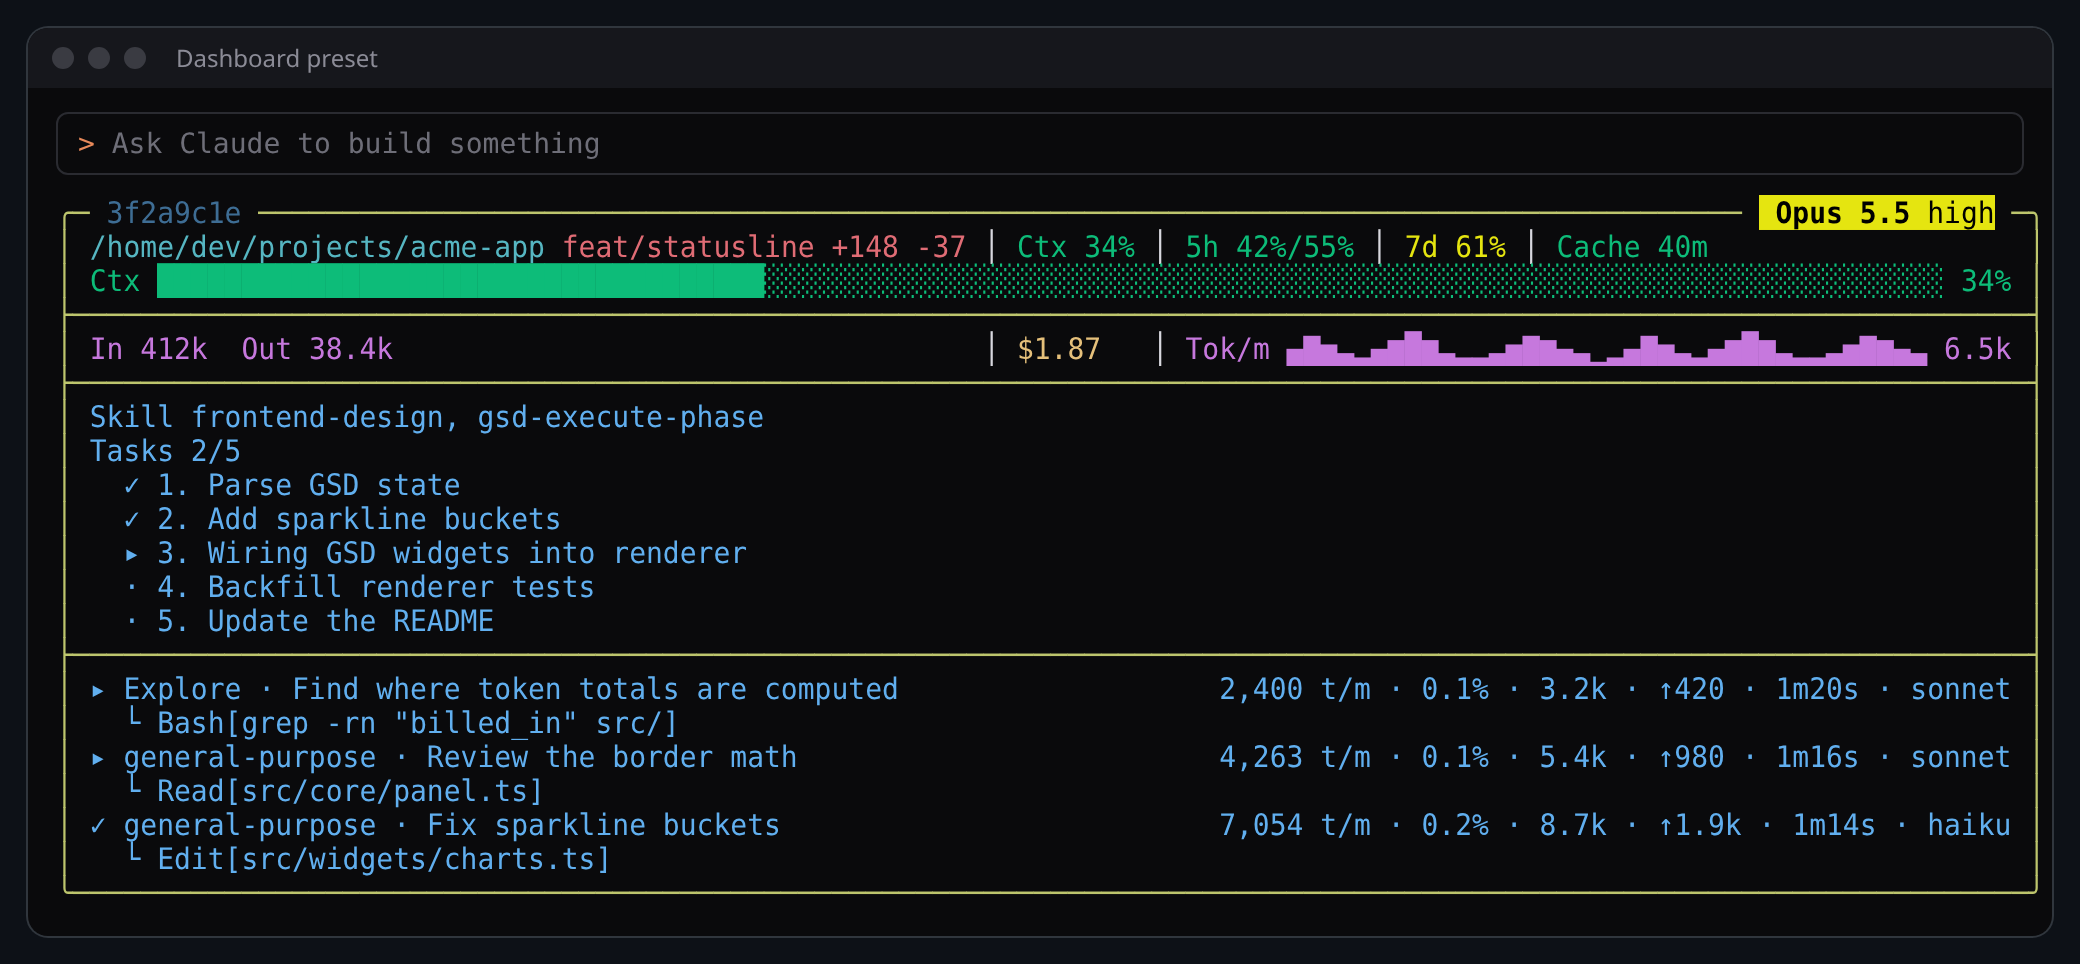
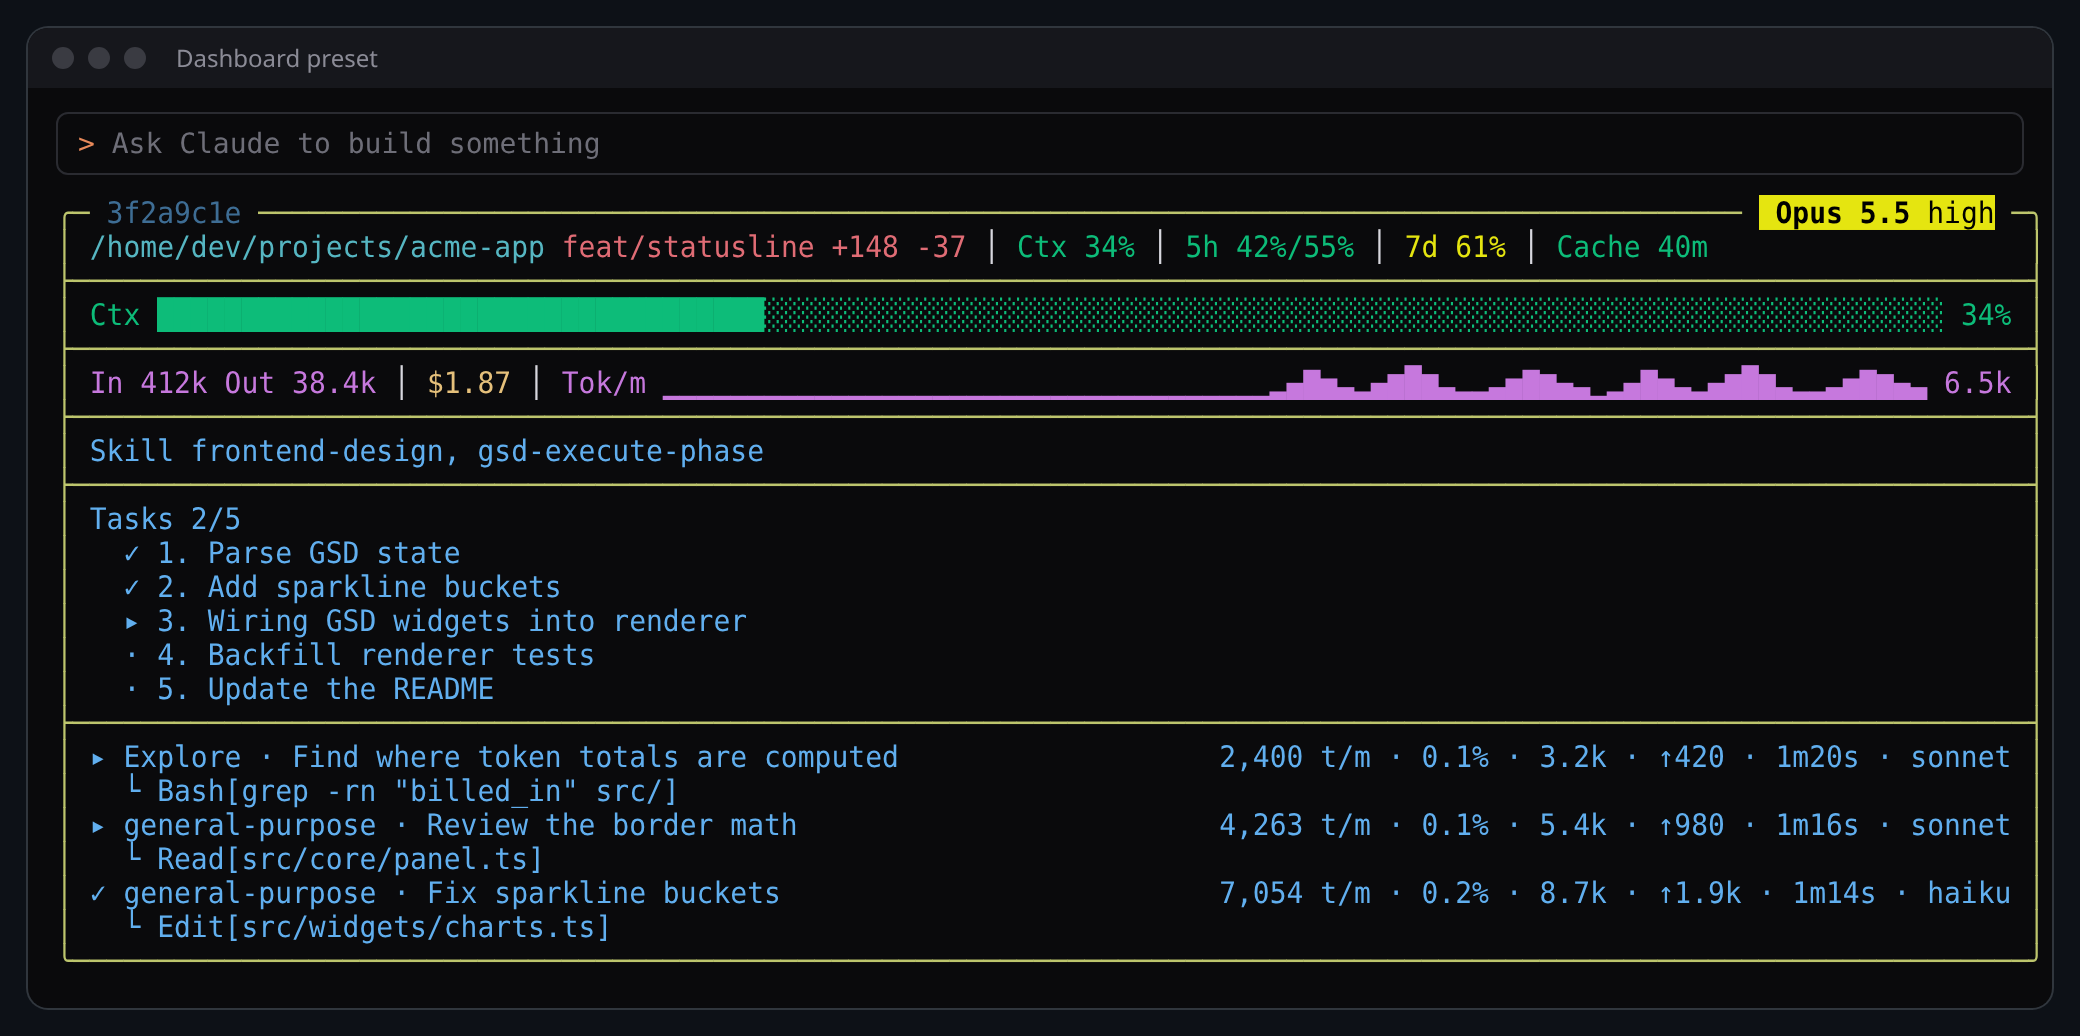
Draw panel lines as table cells and build the dashboard from lines

diff --git a/src/core/panel.ts b/src/core/panel.ts
@@ -161,6 +161,80 @@ export function sizeColumns(
   return widths;
 }
 
+function tokenNames(texts: (string | undefined)[]): Set<string> {
+  const out = new Set<string>();
+  for (const t of texts) {
+    for (const m of (t ?? '').matchAll(/\{([a-z0-9._-]+)\}/gi))
+      out.add(m[1]!.replace(/\.(label|value)$/, ''));
+  }
+  return out;
+}
+
+// move cells that do not fit to a new row
+function wrapRows(rows: Row[], widthOf: (name: string) => number, inner: number, gap: number): Row[] {
+  const out: Row[] = [];
+  for (const r of rows) {
+    if (r.divider) {
+      out.push(r);
+      continue;
+    }
+    let cur: Row & { divider: false } = { divider: false, cells: [] };
+    let used = 0;
+    for (const c of r.cells) {
+      const w = widthOf(c.name);
+      if (cur.cells.length && used + gap + w > inner) {
+        out.push(cur);
+        cur = { divider: false, cells: [] };
+        used = 0;
+      }
+      used += (cur.cells.length ? gap : 0) + w;
+      cur.cells.push(c);
+    }
+    out.push(cur);
+  }
+  return out;
+}
+
+// align columns of neighbouring rows with the same cell count, give the rest to fill cells
+function sizeLineRows(
+  rows: Row[],
+  out: Map<Row, number[]>,
+  widthOf: (name: string) => number,
+  fills: (name: string) => boolean,
+  inner: number,
+  gap: number,
+): void {
+  const content = rows.filter((r): r is Row & { divider: false } => !r.divider);
+  const natural = content.map((r) => r.cells.map((c) => widthOf(c.name)));
+  const sum = (ws: number[]) => ws.reduce((a, b) => a + b, 0) + gap * (ws.length - 1);
+  let i = 0;
+  while (i < content.length) {
+    const n = content[i]!.cells.length;
+    let j = i + 1;
+    while (j < content.length && content[j]!.cells.length === n) j++;
+    if (n > 1 && j - i > 1) {
+      const max = natural[i]!.map((_, k) => Math.max(...natural.slice(i, j).map((ws) => ws[k]!)));
+      if (sum(max) <= inner) for (let k = i; k < j; k++) natural[k] = [...max];
+    }
+    i = j;
+  }
+  content.forEach((r, k) => {
+    const ws = natural[k]!;
+    const free = inner - sum(ws);
+    const grow = r.cells.map((c, x) => (fills(c.name) ? x : -1)).filter((x) => x >= 0);
+    const take = grow.length ? grow : [ws.length - 1];
+    if (free > 0) {
+      take.forEach((x, t) => {
+        ws[x]! += Math.floor(free / take.length) + (t < free % take.length ? 1 : 0);
+      });
+    } else if (free < 0) {
+      const widest = ws.indexOf(Math.max(...ws));
+      ws[widest] = Math.max(4, ws[widest]! + free);
+    }
+    out.set(r, ws);
+  });
+}
+
 export function renderPanel(
   ctx: RenderContext,
   a: Appearance,
@@ -182,6 +256,7 @@ export function renderPanel(
 
   const cells = new Map<string, Cell>();
   const sources = new Map<string, { item: WidgetItem; index: number }>();
+  const own = new Map<WidgetItem, Cell>();
   const hidden = new Set<string>();
   let index = 0;
   for (const line of ctx.config.lines) {
@@ -192,6 +267,7 @@ export function renderPanel(
         hidden.add(item.id).add(item.type);
         continue;
       }
+      own.set(item, c);
       for (const key of [item.id, item.type]) {
         if (!cells.has(key)) {
           cells.set(key, c);
@@ -258,34 +334,54 @@ export function renderPanel(
   const maxW = Math.min(tui.maxWidth ?? Number.POSITIVE_INFINITY, maxWidth ?? Number.POSITIVE_INFINITY);
   const target = Number.isFinite(maxW) ? Math.max(minW, maxW) : null;
 
+  const titleRight = tui.title?.right === false ? undefined : (tui.title?.right ?? DEFAULT_RIGHT);
+  const titleLeft = tui.title?.left ?? DEFAULT_TITLE;
   let rows: Row[];
   let specs: string[];
   let align: TuiBreakpoint['align'] = [];
   const bp = tui.breakpoints?.length
     ? pickBreakpoint(tui.breakpoints, target ?? Number.POSITIVE_INFINITY)
     : null;
+  const byLine = !bp;
   if (bp) {
     rows = bp.areas.map(parseArea);
     const n = Math.max(1, ...rows.map((r) => (r.divider ? 0 : r.cells.reduce((s, c) => s + c.span, 0))));
     specs = Array.from({ length: n }, (_, i) => bp.columns?.[i] ?? (i === n - 1 ? '1fr' : 'auto'));
     align = bp.align ?? [];
   } else {
+    // one cell per widget, merged widgets share a cell
     const dividers = tui.dividers ?? true;
+    // widgets placed in a custom title or footer are not repeated
+    const shown = tokenNames([
+      tui.title?.left,
+      tui.title?.right || undefined,
+      tui.footer?.left,
+      tui.footer?.right,
+    ]);
     rows = [];
     ctx.config.lines.forEach((line, li) => {
-      let text = '';
-      let glue = '';
+      const names: string[] = [];
+      let run: { item: WidgetItem; text: string }[] = [];
+      const flush = () => {
+        if (run.length === 1 && sources.get(run[0]!.item.id)?.item === run[0]!.item) {
+          names.push(run[0]!.item.id);
+        } else if (run.length) {
+          const name = `__l${li}c${names.length}`;
+          const text = run.map((r) => r.text).join(' ');
+          cells.set(name, { text, label: '', value: text });
+          names.push(name);
+        }
+        run = [];
+      };
       for (const it of line) {
-        const t = cells.get(it.id)?.text;
-        if (!t) continue;
-        text += glue + t;
-        glue = it.merge ? '' : gap;
+        const t = shown.has(it.id) || shown.has(it.type) ? '' : own.get(it)?.text;
+        if (t) run.push({ item: it, text: t });
+        if (!it.merge) flush();
       }
-      if (!text) return;
-      const name = `__line${li}`;
-      cells.set(name, { text, label: '', value: '' });
+      flush();
+      if (!names.length) return;
       if (rows.length && dividers) rows.push({ divider: true });
-      rows.push({ divider: false, cells: [{ name, span: 1 }] });
+      rows.push({ divider: false, cells: names.map((name) => ({ name, span: 1 })) });
     });
     specs = ['1fr'];
   }
@@ -293,7 +389,9 @@ export function renderPanel(
   if (!rows.length) return [];
 
   const contentWidth = (widths: number[]) => widths.reduce((s, w) => s + w, 0) + gapW * (widths.length - 1);
-  const natural = sizeColumns(specs, rows, widthOf, null, gapW);
+  const natural = byLine
+    ? [Math.max(0, ...rows.map((r) => (r.divider ? 0 : contentWidth(r.cells.map((c) => widthOf(c.name))))))]
+    : sizeColumns(specs, rows, widthOf, null, gapW);
   let inner: number;
   if (fit) {
     inner = Math.max(minW - 2 - padding * 2, contentWidth(natural));
@@ -302,7 +400,19 @@ export function renderPanel(
     inner = (target ?? minW) - 2 - padding * 2;
   }
   inner = Math.max(4, inner);
-  const widths = sizeColumns(specs, rows, widthOf, inner, gapW);
+  const widths = byLine ? [inner] : sizeColumns(specs, rows, widthOf, inner, gapW);
+  const rowWidths = new Map<Row, number[]>();
+  if (byLine) {
+    rows = wrapRows(rows, widthOf, inner, gapW);
+    sizeLineRows(
+      rows,
+      rowWidths,
+      widthOf,
+      (name) => !!sources.get(name) && !!deps.fill?.(sources.get(name)!.item),
+      inner,
+      gapW,
+    );
+  }
   const total = inner + padding * 2;
   const side = ' '.repeat(padding);
 
@@ -323,8 +433,7 @@ export function renderPanel(
     );
   };
 
-  const titleRight = tui.title?.right === false ? undefined : (tui.title?.right ?? DEFAULT_RIGHT);
-  const out = [edge(b.topLeft, b.topRight, tui.title?.left ?? DEFAULT_TITLE, titleRight)];
+  const out = [edge(b.topLeft, b.topRight, titleLeft, titleRight)];
   for (const r of rows) {
     if (r.divider) {
       const ch = tui.divider ?? b.horizontal;
@@ -332,15 +441,16 @@ export function renderPanel(
       continue;
     }
     let col = 0;
+    const ws = rowWidths.get(r) ?? widths;
     const columns: { lines: string[]; w: number; align: 'left' | 'center' | 'right' }[] = [];
     for (const c of r.cells) {
-      const end = Math.min(widths.length, col + c.span);
-      const w = widths.slice(col, end).reduce((a2, b2) => a2 + b2, 0) + gapW * (end - col - 1);
+      const end = Math.min(ws.length, col + c.span);
+      const w = ws.slice(col, end).reduce((a2, b2) => a2 + b2, 0) + gapW * (end - col - 1);
       const text = c.name === '.' ? '' : cellText(c.name, w);
       columns.push({ lines: splitAnsiLines(text), w, align: align?.[col] ?? 'left' });
       col = end;
     }
-    while (col < widths.length) columns.push({ lines: [''], w: widths[col++]!, align: 'left' });
+    while (col < ws.length) columns.push({ lines: [''], w: ws[col++]!, align: 'left' });
     const height = Math.max(1, ...columns.map((c) => c.lines.length));
     for (let k = 0; k < height; k++) {
       const parts = columns.map((c) => pad(c.lines[k] ?? '', c.w, c.align));

diff --git a/src/core/presets.ts b/src/core/presets.ts
@@ -63,7 +63,6 @@ export function cockpitConfig(): Config {
 
 // boxed overview like yet-another-statusline
 export function dashboardConfig(): Config {
-  const all = (name: string) => `${name} ${name} ${name} ${name} ${name}`;
   return {
     ...defaultConfig(),
     theme: 'panel',
@@ -75,32 +74,6 @@ export function dashboardConfig(): Config {
       padding: 1,
       maxWidth: 140,
       title: { left: '{sid.value}', right: '{model}{effort}' },
-      templates: {
-        where: { items: ['{cwd}', '{git-branch}', '{git-changes}'], gap: 1 },
-        io: { items: ['{tokens-input}', '{tokens-output}'], gap: 2 },
-      },
-      breakpoints: [
-        {
-          minWidth: 110,
-          areas: [
-            'where ctx h5 d7 cache',
-            all('bar'),
-            '---',
-            'io cost rate rate rate',
-            '---',
-            all('skills'),
-            all('todo'),
-            '---',
-            all('agents'),
-          ],
-          columns: ['auto', 'auto', 'auto', 'auto', '1fr'],
-        },
-        {
-          minWidth: 0,
-          areas: ['where where', 'ctx h5', 'bar bar', 'io cost', 'rate rate', 'todo todo', 'agents agents'],
-          columns: ['auto', '1fr'],
-        },
-      ],
     },
     lines: [
       [
@@ -109,8 +82,8 @@ export function dashboardConfig(): Config {
         w('effort', 'effort', { label: ' ', color: 'black', background: 'yellow', hideEmpty: true }),
       ],
       [
-        w('cwd', 'cwd', { raw: true, options: { style: 'tilde' } }),
-        w('git-branch', 'git-branch', { raw: true }),
+        w('cwd', 'cwd', { raw: true, merge: true, options: { style: 'tilde' } }),
+        w('git-branch', 'git-branch', { raw: true, merge: true }),
         w('git-changes', 'git-changes', { raw: true }),
         w('ctx', 'context-percentage', {}),
         w('h5', 'five-hour-usage', { options: { showPace: true } }),
@@ -119,7 +92,7 @@ export function dashboardConfig(): Config {
       ],
       [w('bar', 'context-bar', { options: { fill: true, width: 10 } })],
       [
-        w('tokens-input', 'tokens-input', {}),
+        w('tokens-input', 'tokens-input', { merge: true }),
         w('tokens-output', 'tokens-output', {}),
         w('cost', 'session-cost', {}),
         w('rate', 'token-rate-graph', { options: { fill: true } }),

diff --git a/test/core/panel.test.ts b/test/core/panel.test.ts
@@ -69,8 +69,8 @@ describe('panel style', () => {
       footer: { right: '{gamma}' },
     });
     expect(out[0]).toBe(`╔─ T ${'═'.repeat(34)}╗`.replace('╔─', '╔═'));
-    expect(out).toHaveLength(4);
-    expect(out[3]!.endsWith(' gamma ═╝')).toBe(true);
+    expect(out).toHaveLength(3);
+    expect(out[2]!.endsWith(' gamma ═╝')).toBe(true);
     const ascii = render(
       ctxWith({
         width: 30,
@@ -79,6 +79,24 @@ describe('panel style', () => {
     ).map(stripAnsi);
     expect(ascii[0]!.startsWith('+-')).toBe(true);
     expect(ascii[1]!.startsWith('| x')).toBe(true);
+  });
+
+  it('draws config lines as table rows', () => {
+    const lines = [
+      [{ ...text('a'), merge: true }, text('b'), text('ccc')],
+      [text('dddd'), text('e')],
+      [text('f'), text('g'), text('h')],
+    ];
+    const out = panel({ columnGap: ' | ', dividers: false, title: { right: false } }, 30, lines);
+    expect(out.slice(1, 4)).toEqual([
+      '│ a b  | ccc                   │',
+      '│ dddd | e                     │',
+      '│ f | g | h                    │',
+    ]);
+    const narrow = panel({ columnGap: ' | ', minWidth: 10, title: { right: false } }, 14, [
+      [text('alpha'), text('beta'), text('gamma')],
+    ]);
+    expect(narrow.slice(1, 3)).toEqual(['│ alpha | beta     │', '│ gamma            │']);
   });
 
   it('fits content when asked', () => {

diff --git a/docs/THEMES.md b/docs/THEMES.md
@@ -69,7 +69,15 @@ The `tui` style (theme `panel`, or `"style": "tui"` with any theme) draws a box 
 ╰──────────────────────────────────────────────────────────╯
 ```
 
-Without further settings each config line becomes a row. Configure it under `tui`:
+Without breakpoints each config line becomes a row and each widget a cell, so moving widgets in the editor moves them in the panel:
+
+- Widgets joined with **merge** share a cell, separated by a space.
+- Rows with the same number of cells line up as columns.
+- Bars and graphs with **Fill the cell** take the free width of their row; otherwise the last cell does.
+- Cells that do not fit move to a new row.
+- Widgets shown in a custom title or footer (`{model}`) are not repeated in the rows, so a line can hold widgets only for the title.
+
+Configure it under `tui`:
 
 | Field | Default | Description |
 | --- | --- | --- |

diff --git a/CHANGELOG.md b/CHANGELOG.md
@@ -6,6 +6,8 @@ All notable changes to this project are documented here. The format follows [Kee
 
 ### Fixed
 
+- Panel style without breakpoints draws each widget as its own cell: merged widgets share one, rows with the same cell count line up, fill widgets take the free width, cells that do not fit wrap, and widgets used in a custom title or footer are not repeated
+- The Dashboard preset is built from config lines instead of a fixed grid, so moving widgets in the editor changes the panel
 - Background subagents (`run_in_background`) show as running until their task notification arrives instead of finishing at once; their tokens per minute leave out cache reads
 - Panel style: a widget hidden with **Hide when no data** no longer shows up as `name —` when its cell name is also a widget type
 
